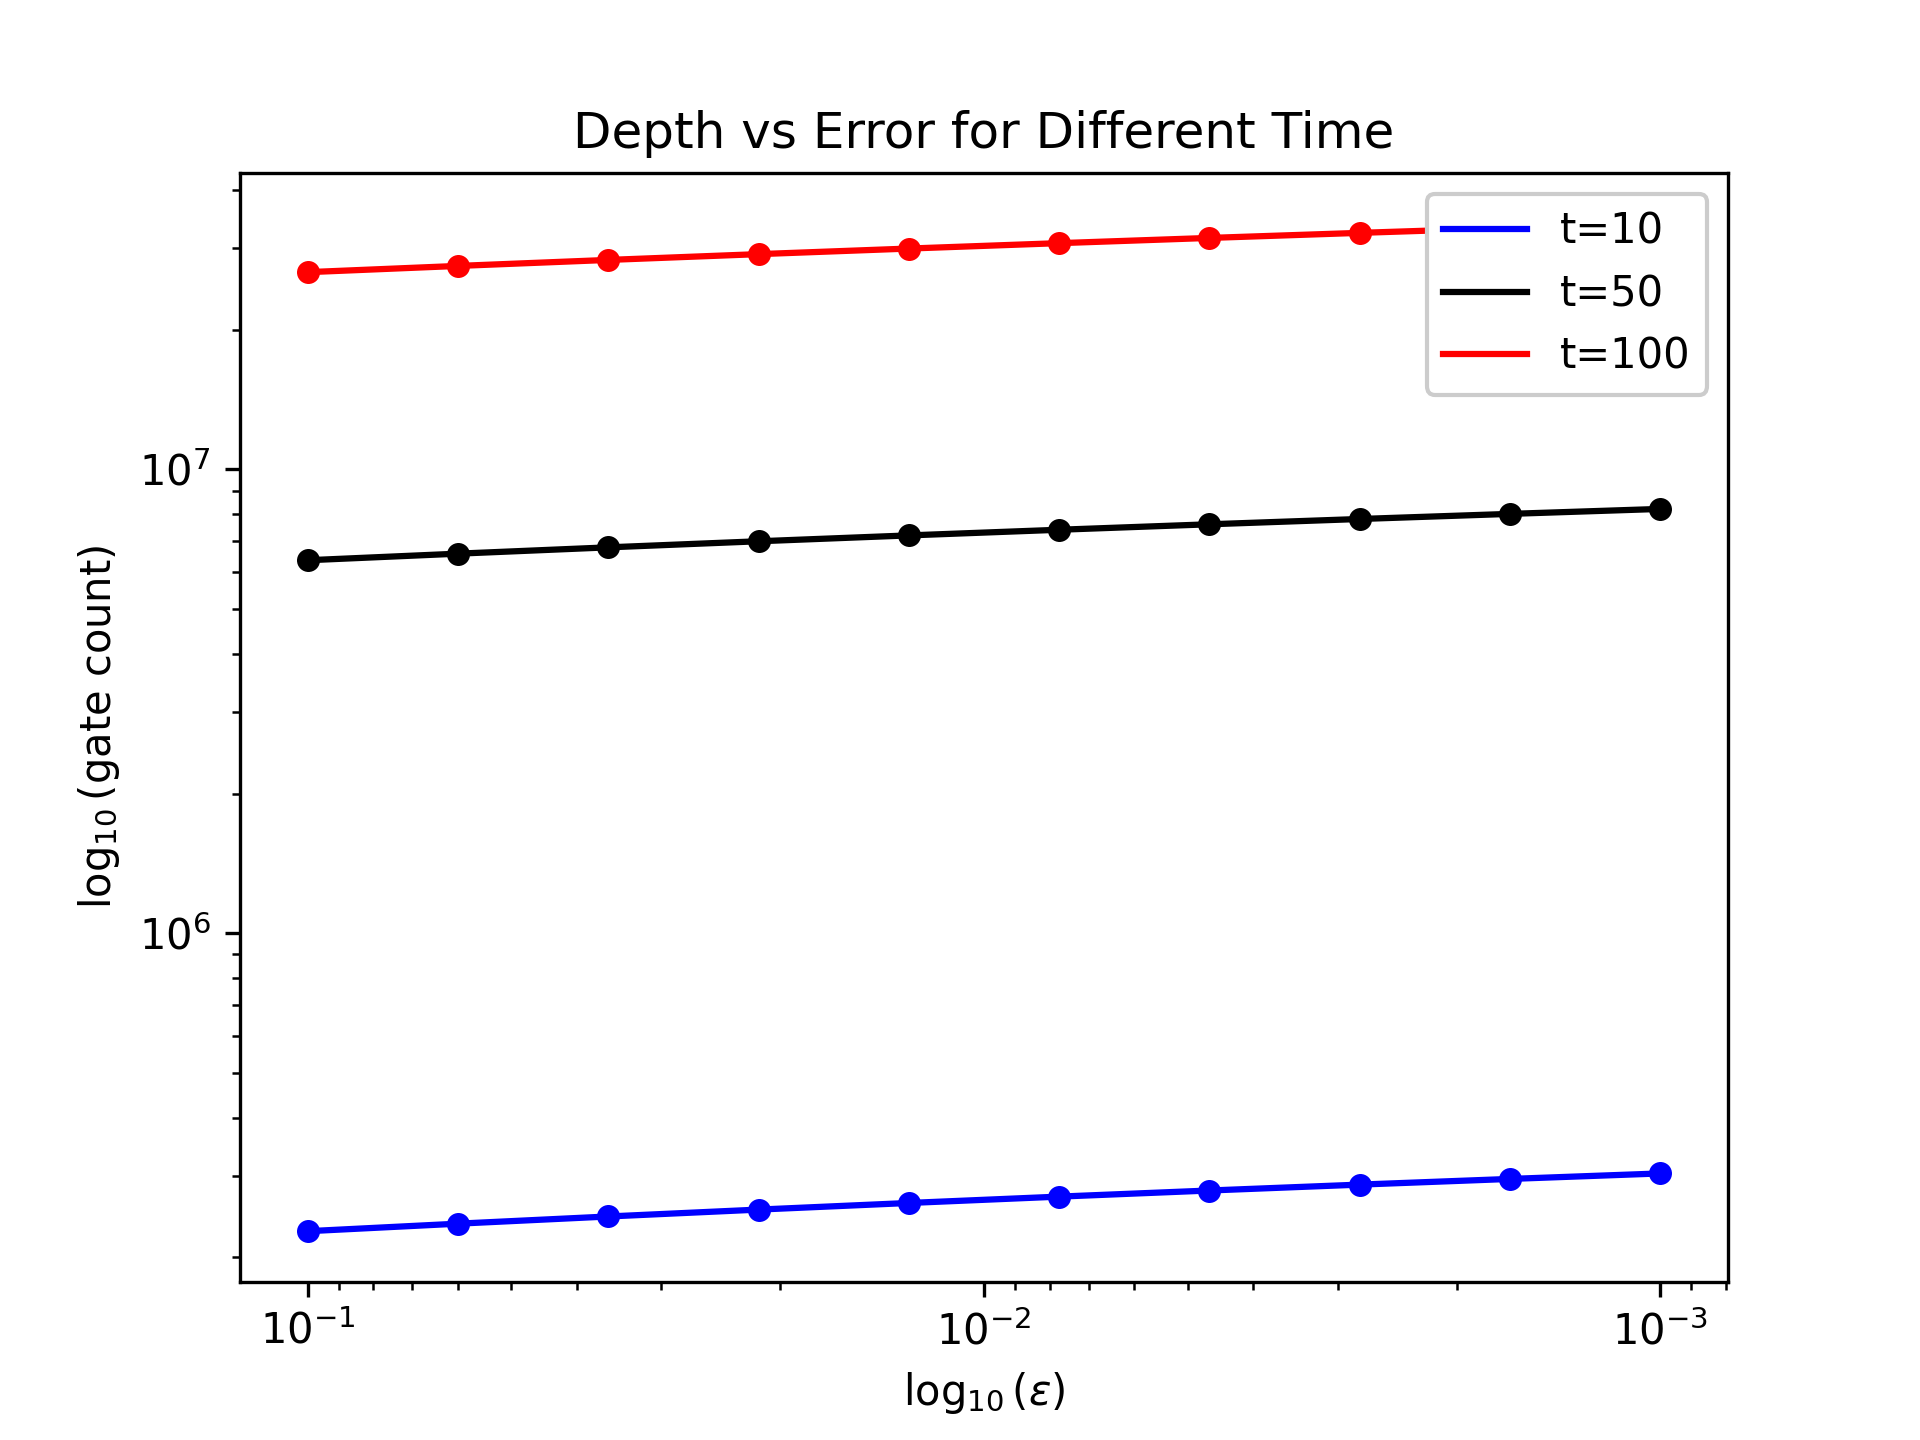
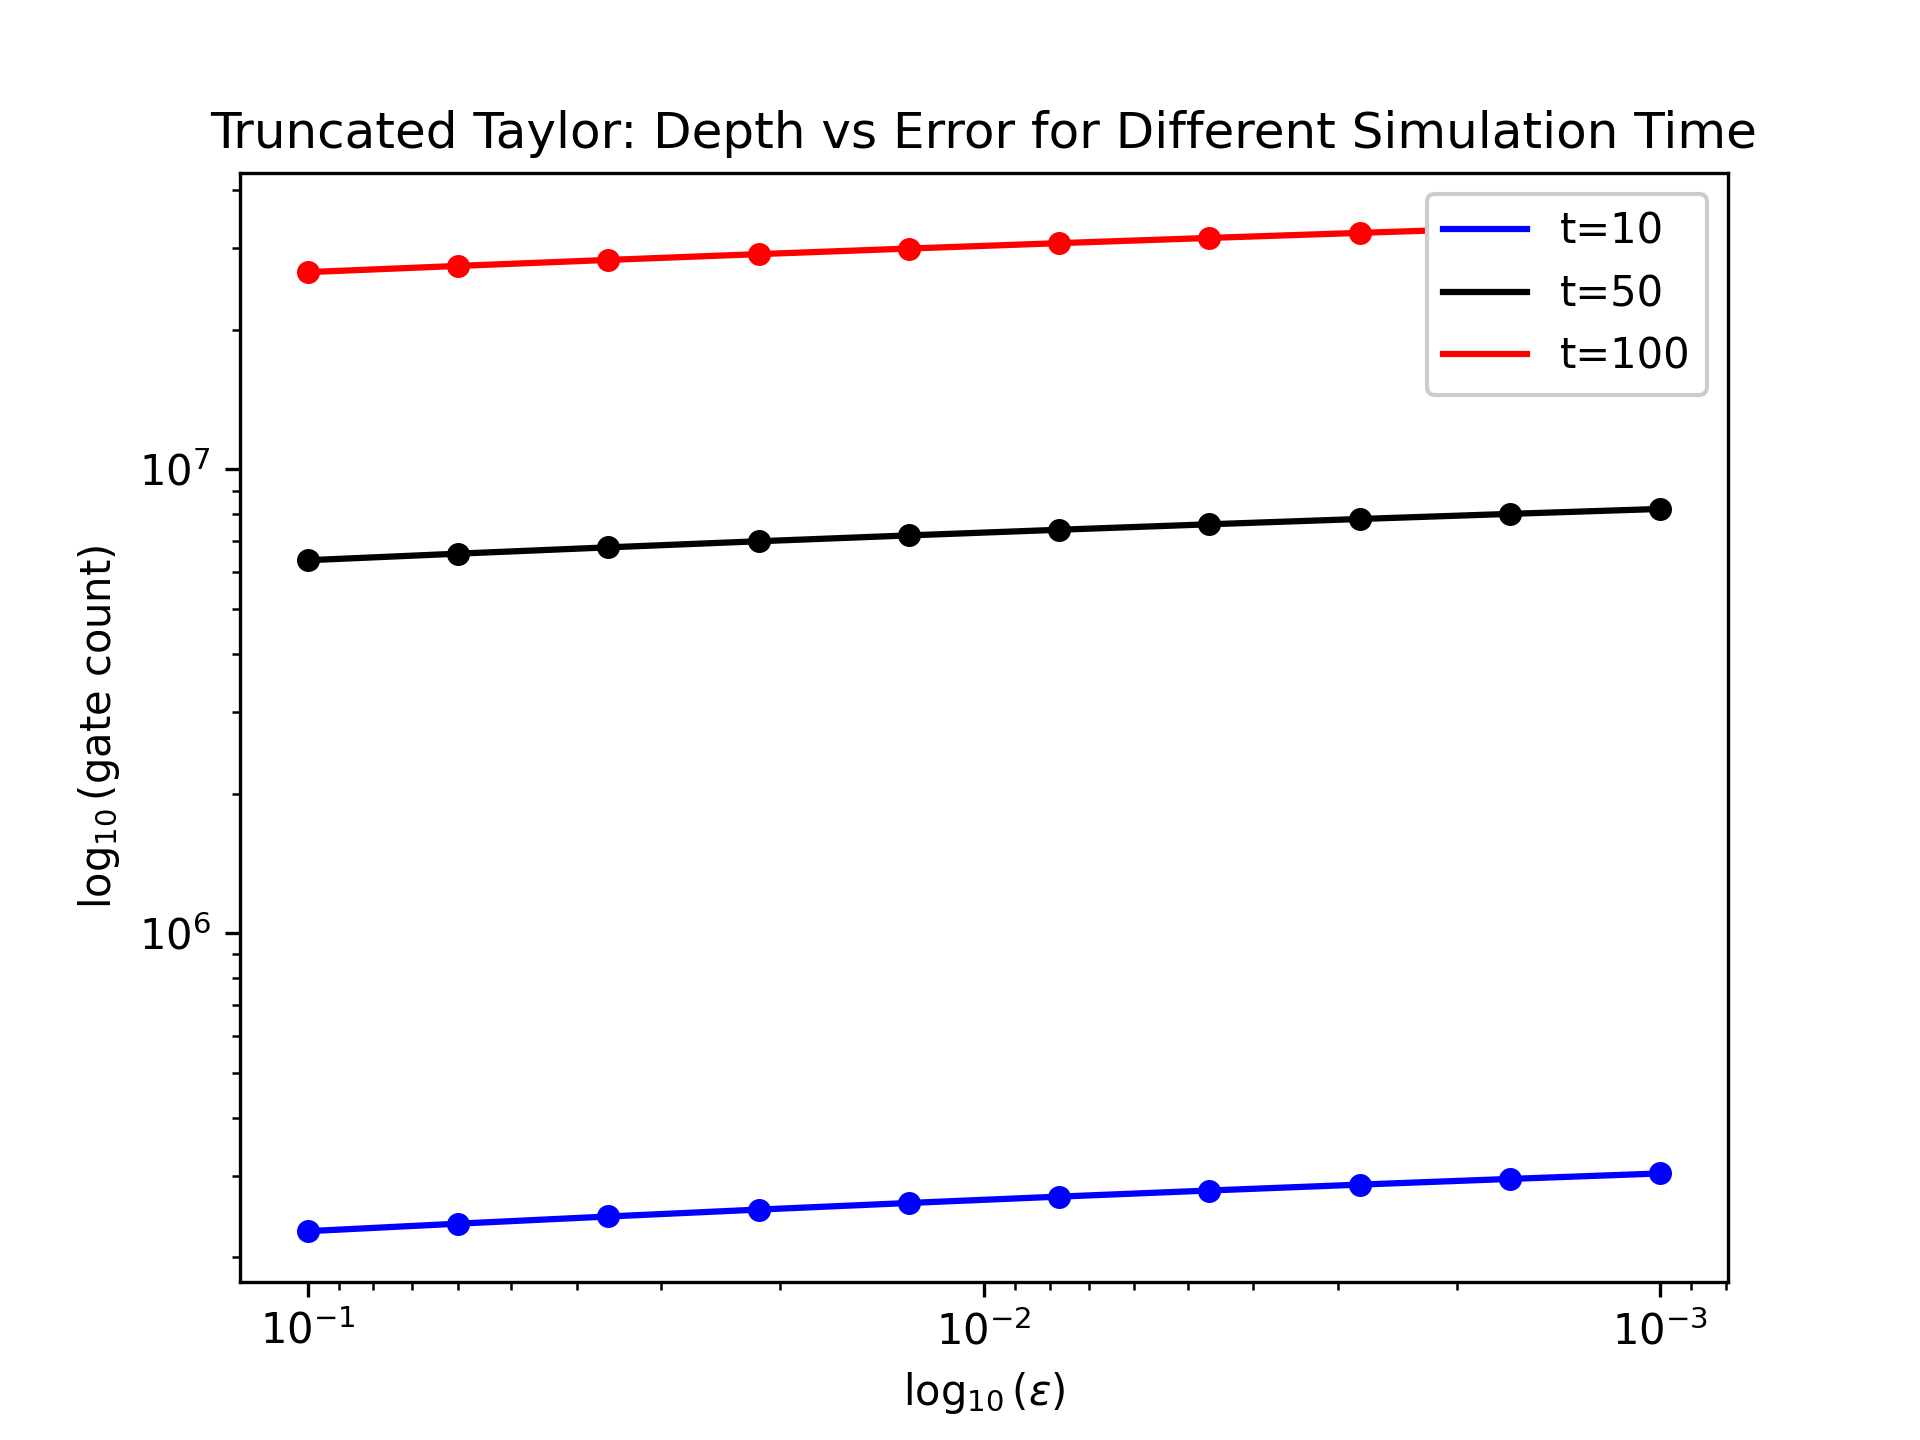
title taylor fix

Changed region(s): [[0.0938, 0.0625, 0.9062, 0.125]]

diff --git a/ising/benchmark/taylor_multi_t.py b/ising/benchmark/taylor_multi_t.py
@@ -50,7 +50,7 @@ def plot_gate_error(
     ax.set_ylabel(r"$\log_{10}(\text{gate count})$")
 
     ax.legend(loc="upper right", framealpha=1)
-    ax.set_title("Depth vs Error for Different Time")
+    ax.set_title("Truncated Taylor: Depth vs Error for Different Simulation Time")
 
     diagram_name = "plots/benchmark/taylor_multi_t.png"
     print(f"Saving diagram at:{diagram_name}")
